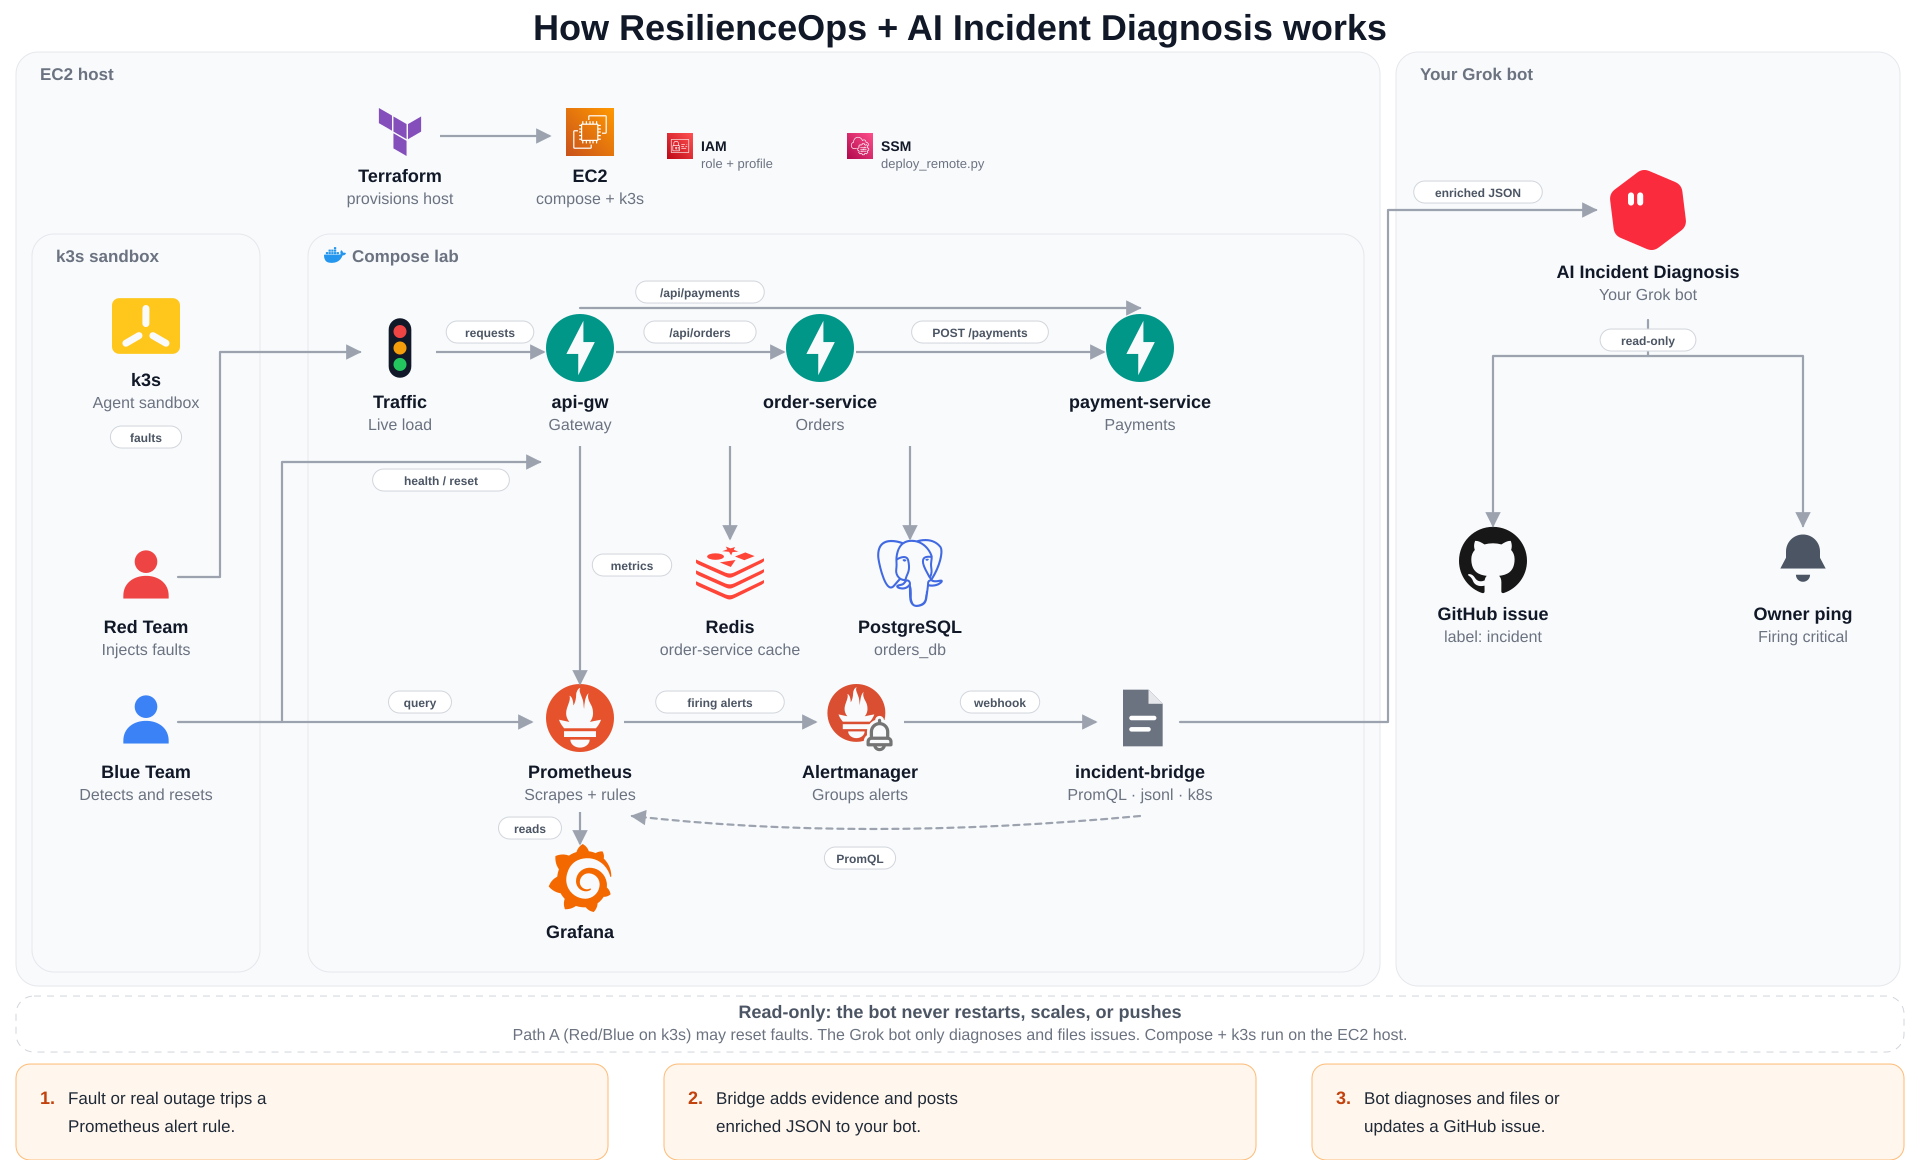
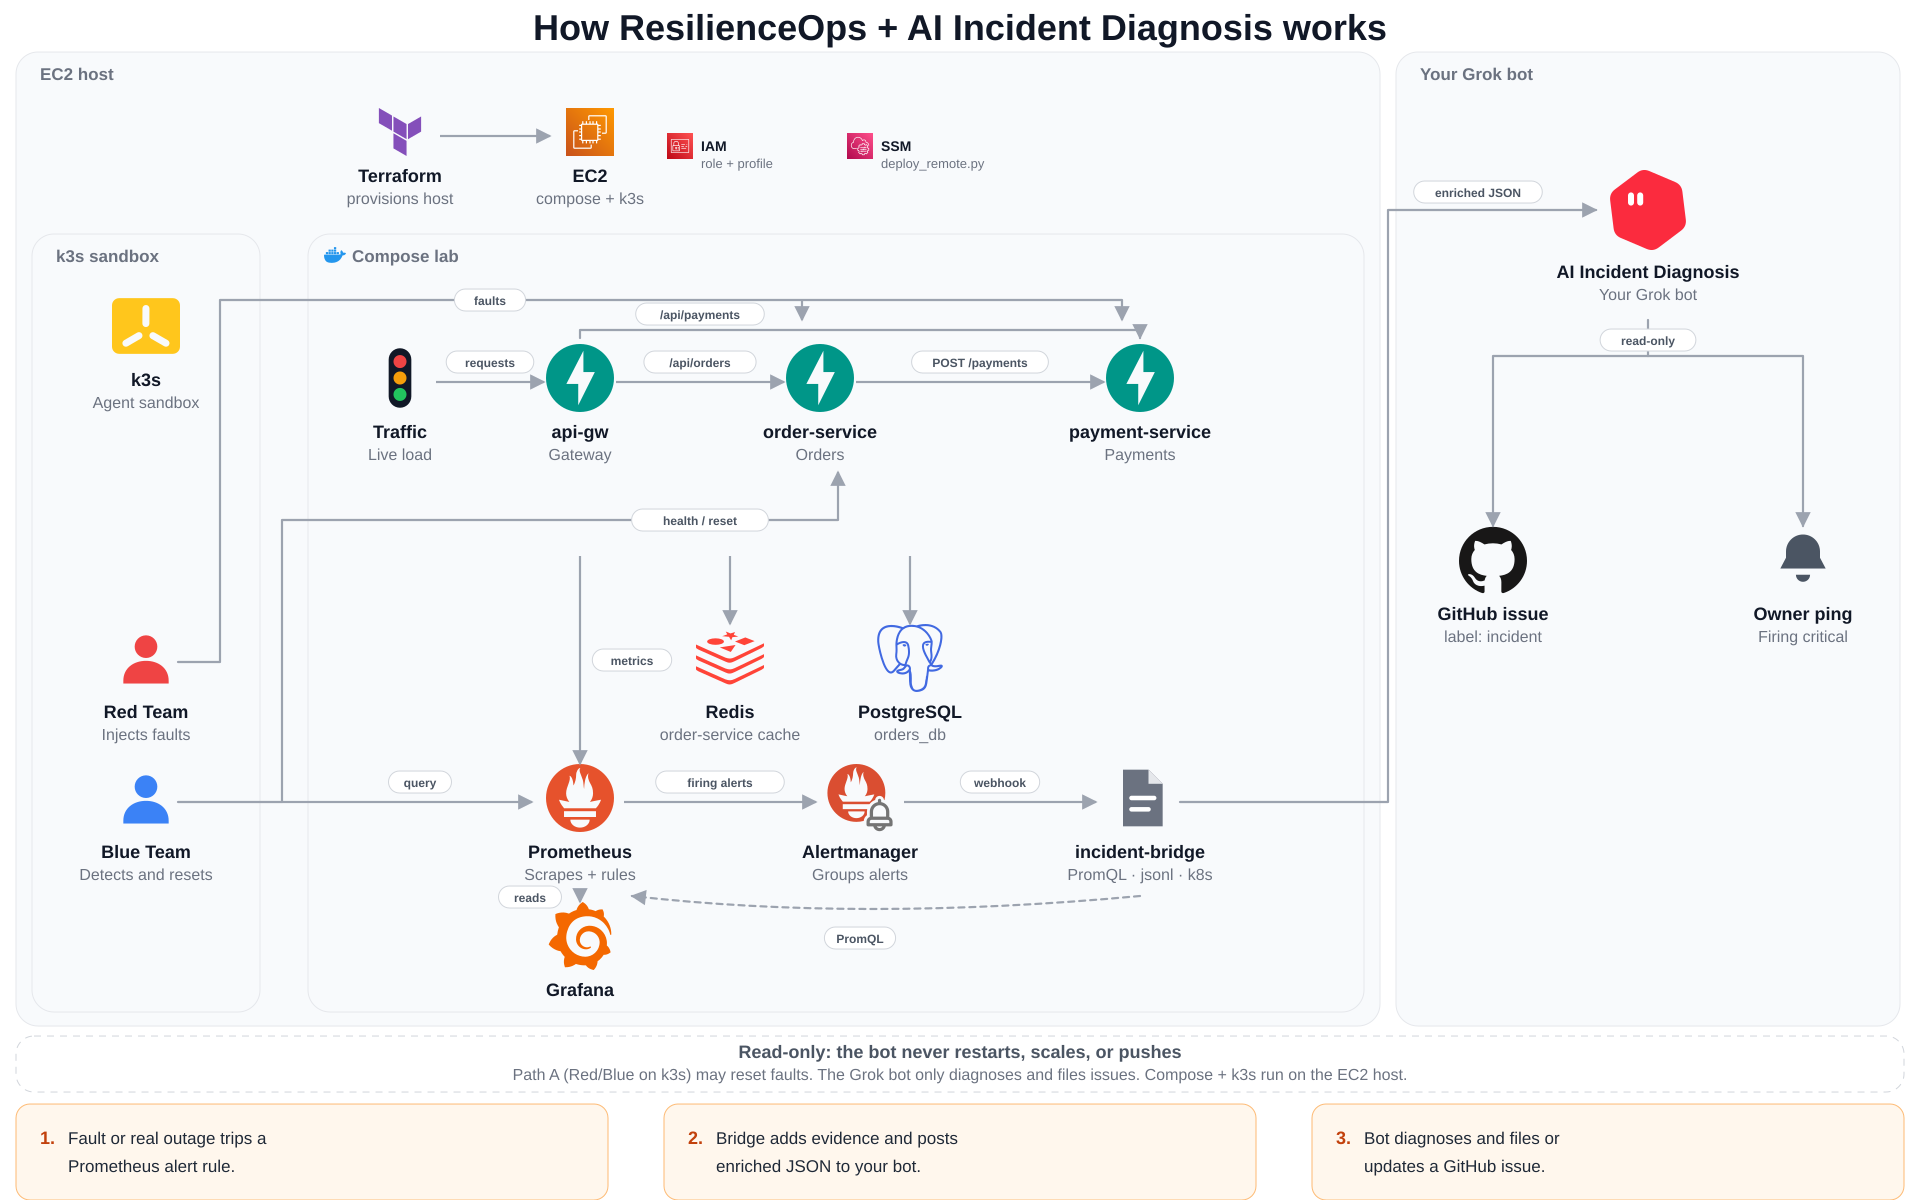
Land Red Team on order and payment, not Traffic.
Route Red over the service icons onto a short bracket that ticks into
order-service and payment-service, with the faults pill on that rail.
Extend Blue health/reset under api-gw so it ticks into order-service.

diff --git a/scripts/build_architecture.py b/scripts/build_architecture.py
@@ -275,10 +275,10 @@ def _icon_top(node_y: float) -> float:
 
 
 def build() -> str:
-    W, H = 1920, 1160
+    W, H = 1920, 1200
     gy = 52
-    main_h = 934
-    col_bottom = gy + main_h  # 986
+    main_h = 974
+    col_bottom = gy + main_h  # 1026
 
     bot_x, bot_w = 1396, 504
     ec2_x, ec2_w = 16, 1364
@@ -307,10 +307,10 @@ def build() -> str:
     g_k3s = group(k3s_x, nested_y, k3s_w, nested_h, "k3s sandbox")
     g_lab = group(lab_x, nested_y, lab_w, nested_h, "Compose lab", icon="docker")
 
-    r1 = 390  # Traffic / api-gw / order / payment
-    r2 = 615  # Redis + Postgres under order-service; Red Team in k3s
-    r3 = 760  # Prometheus → Alertmanager → incident-bridge; Blue Team
-    graf_y = 920  # Grafana sits under Prometheus, not on the alert row
+    r1 = 420  # Traffic / api-gw / order / payment (room above for Red flyover)
+    r2 = 700  # Redis + Postgres under order-service; Red Team in k3s
+    r3 = 840  # Prometheus → Alertmanager → incident-bridge; Blue Team
+    graf_y = 978  # Grafana sits under Prometheus, not on the alert row
 
     k3s_cx = k3s_x + k3s_w / 2  # 146
     k3s_node_y = nested_y + LABEL_BAND + ICON + 10  # 360
@@ -388,9 +388,14 @@ def build() -> str:
     db_top = _icon_top(r2)
     prom_top = _icon_top(r3)
     graf_top = _icon_top(graf_y)
-    pay_y = nested_y + LABEL_BAND + 18  # 300, between Compose label and service icons
-    health_y = r1 + 72  # below service captions; stays left of Redis/Postgres
-    metrics_from = r1 + 56
+    pay_y = nested_y + LABEL_BAND + 40  # 330, below Red ticks so they do not cross it
+    # Red flies over the services (above the /api/payments U-turn) and ticks
+    # down into order-service and payment-service. Blue stays in the corridor
+    # under the captions and ticks up into order-service. The two never share y.
+    red_y = nested_y + LABEL_BAND + 10  # 300
+    svc_bottom = r1 + 52
+    health_y = r1 + 100  # Blue horizontal under captions, above Redis/metrics
+    metrics_from = r1 + 136
 
     # 1. Terraform → EC2 host. IAM and SSM are attached badges, not a chain.
     parts.append(arrow(tf_x + 40, aws_ic, ec2_node_x - 40, aws_ic))
@@ -413,30 +418,36 @@ def build() -> str:
     parts.append(pill((gw_x + os_x) / 2, pay_y - 16, "/api/payments"))
 
     # 6–7. order-service → Redis and PostgreSQL. Two short straight drops.
-    # Nothing else is routed through this column.
+    # Drops start below the Red/Blue corridor; nothing else uses this column.
     parts.append(arrow(rd_x, metrics_from, rd_x, db_top))
     parts.append(arrow(pg_x, metrics_from, pg_x, db_top))
 
-    # 8. Red Team → services row. Climbs inside k3s (alley_red), then one
-    # rightward arrow at service-icon height. Does not cross Blue's spine.
+    # 8. Red Team → order-service and payment-service (not Traffic). Climbs
+    # inside k3s (alley_red), flies over the service icons, then a short
+    # bracket ticks down into both targets. Pill sits on that flyover.
+    # Does not cross Blue's spine (Blue is below the row).
+    red_tick_end = pay_y - 10  # stop above the /api/payments U-turn; no crossing
     parts.append(poly([
         (k3s_right, red_ic),
         (alley_red, red_ic),
-        (alley_red, svc_ic),
-        (tg_x - 40, svc_ic),
-    ]))
-    parts.append(pill(k3s_cx, (svc_ic + red_ic) / 2 - 28, "faults"))
+        (alley_red, red_y),
+        (ps_x - 18, red_y),
+    ], marked=False))
+    parts.append(arrow(os_x - 18, red_y, os_x - 18, red_tick_end))
+    parts.append(arrow(ps_x - 18, red_y, ps_x - 18, red_tick_end))
+    parts.append(pill((tg_x + gw_x) / 2, red_y, "faults"))
 
-    # 9. Blue Team → services row. Climbs in the k3s↔compose gutter
-    # (alley_blue, to the right of Red's spine). Lands left of api-gw so
-    # the Redis/Postgres column stays empty.
+    # 9. Blue Team → FastAPI services (not Traffic). Climbs in the gutter
+    # (alley_blue, right of Red's spine). Horizontal runs under api-gw to
+    # order-service, then ticks up into the node.
     parts.append(poly([
         (k3s_right, blue_ic),
         (alley_blue, blue_ic),
         (alley_blue, health_y),
-        (gw_x - 40, health_y),
-    ]))
-    parts.append(pill((alley_blue + gw_x - 40) / 2 + 30, health_y + 18, "health / reset"))
+        (os_x + 18, health_y),
+    ], marked=False))
+    parts.append(arrow(os_x + 18, health_y, os_x + 18, svc_bottom))
+    parts.append(pill((gw_x + os_x) / 2, health_y, "health / reset"))
 
     # 10. Blue Team → Prometheus (query). T-junction at alley_blue; does not
     # cross Red's spine. Stays under Redis/Postgres.
